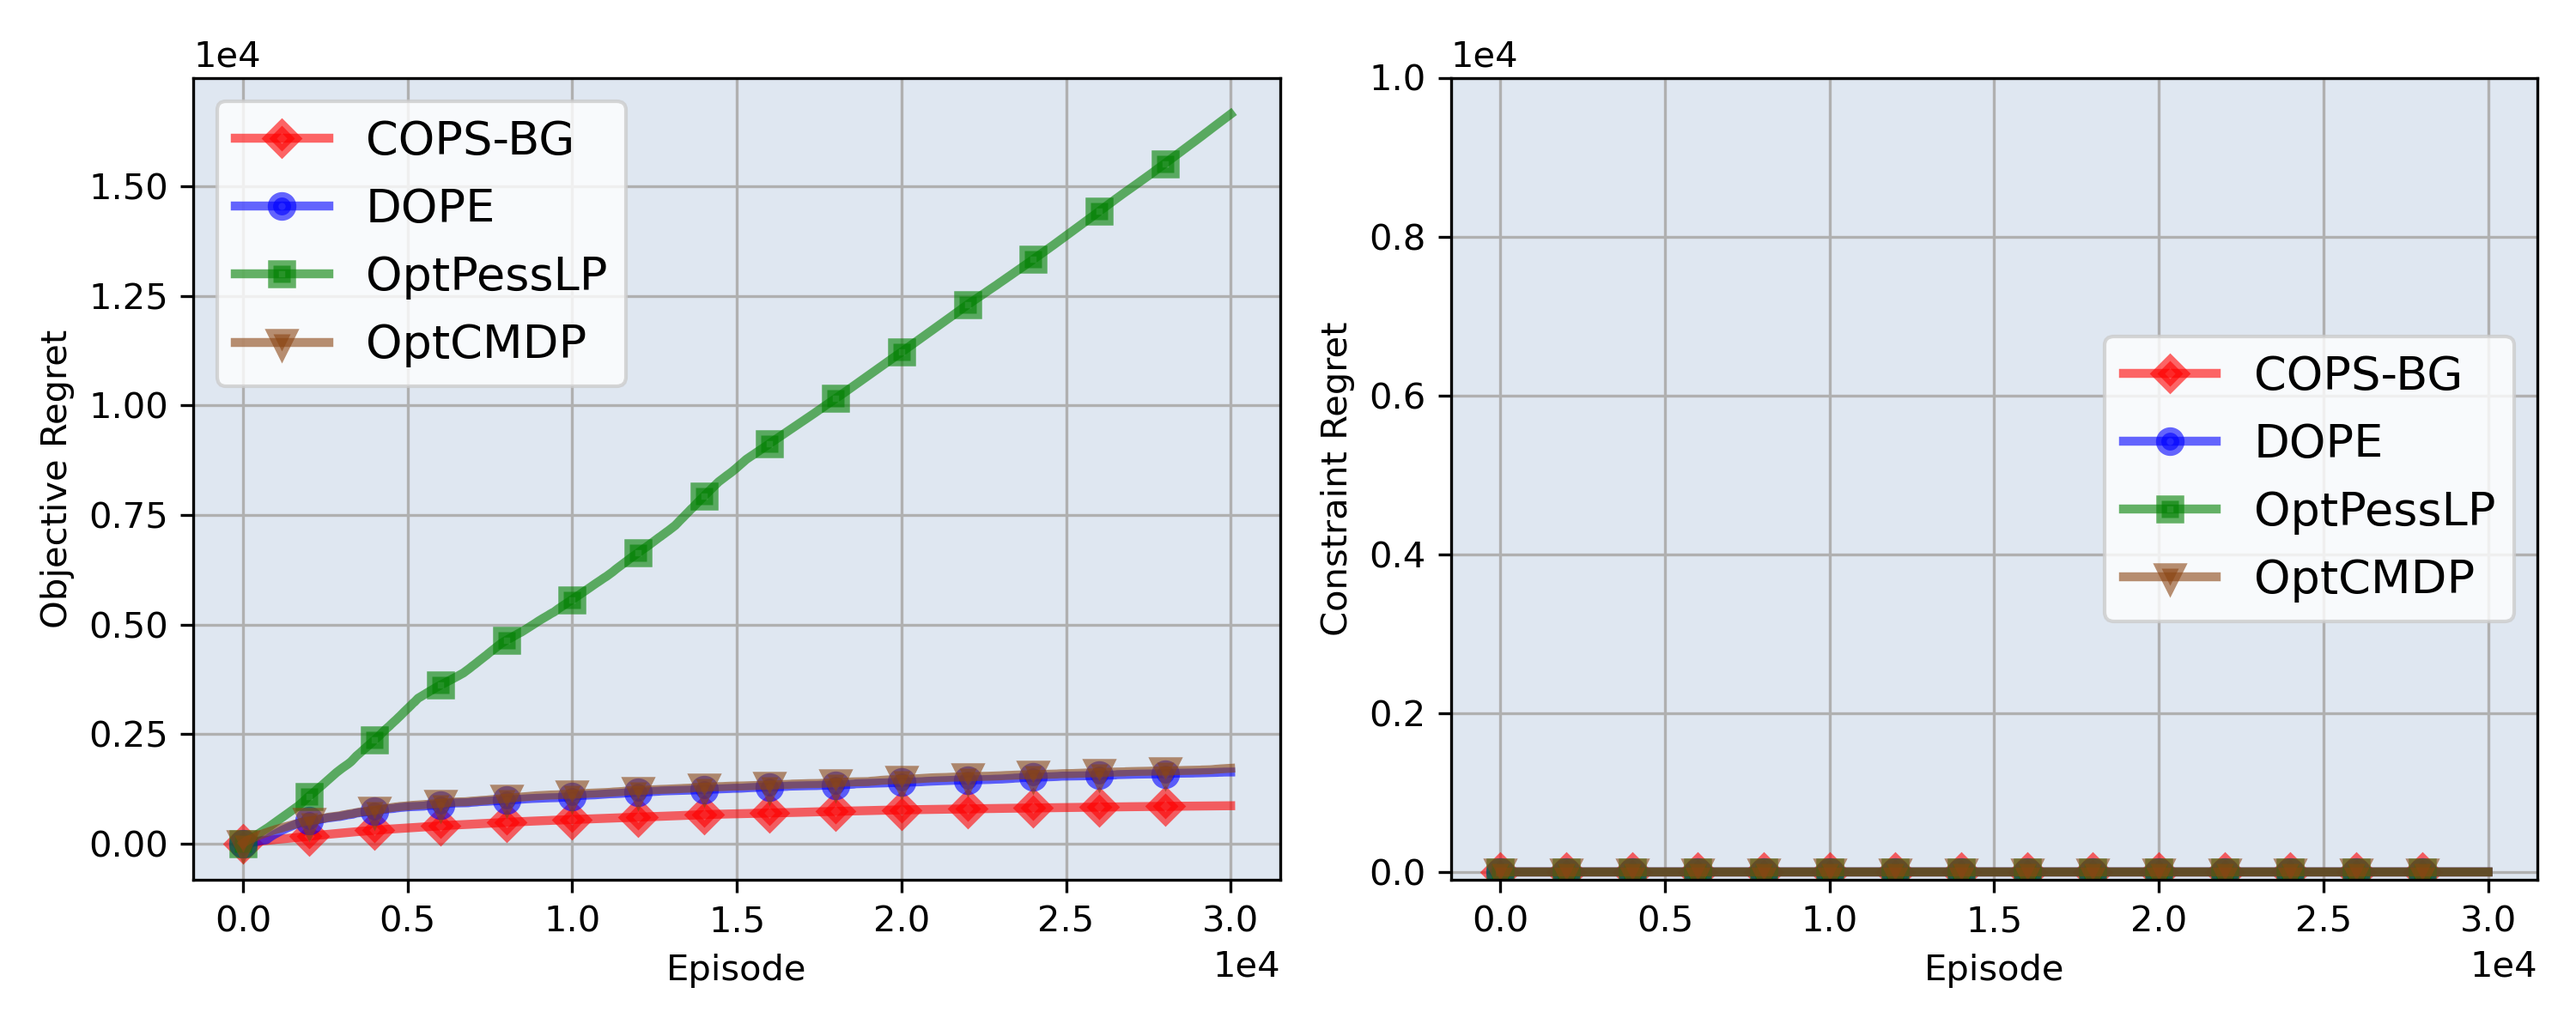
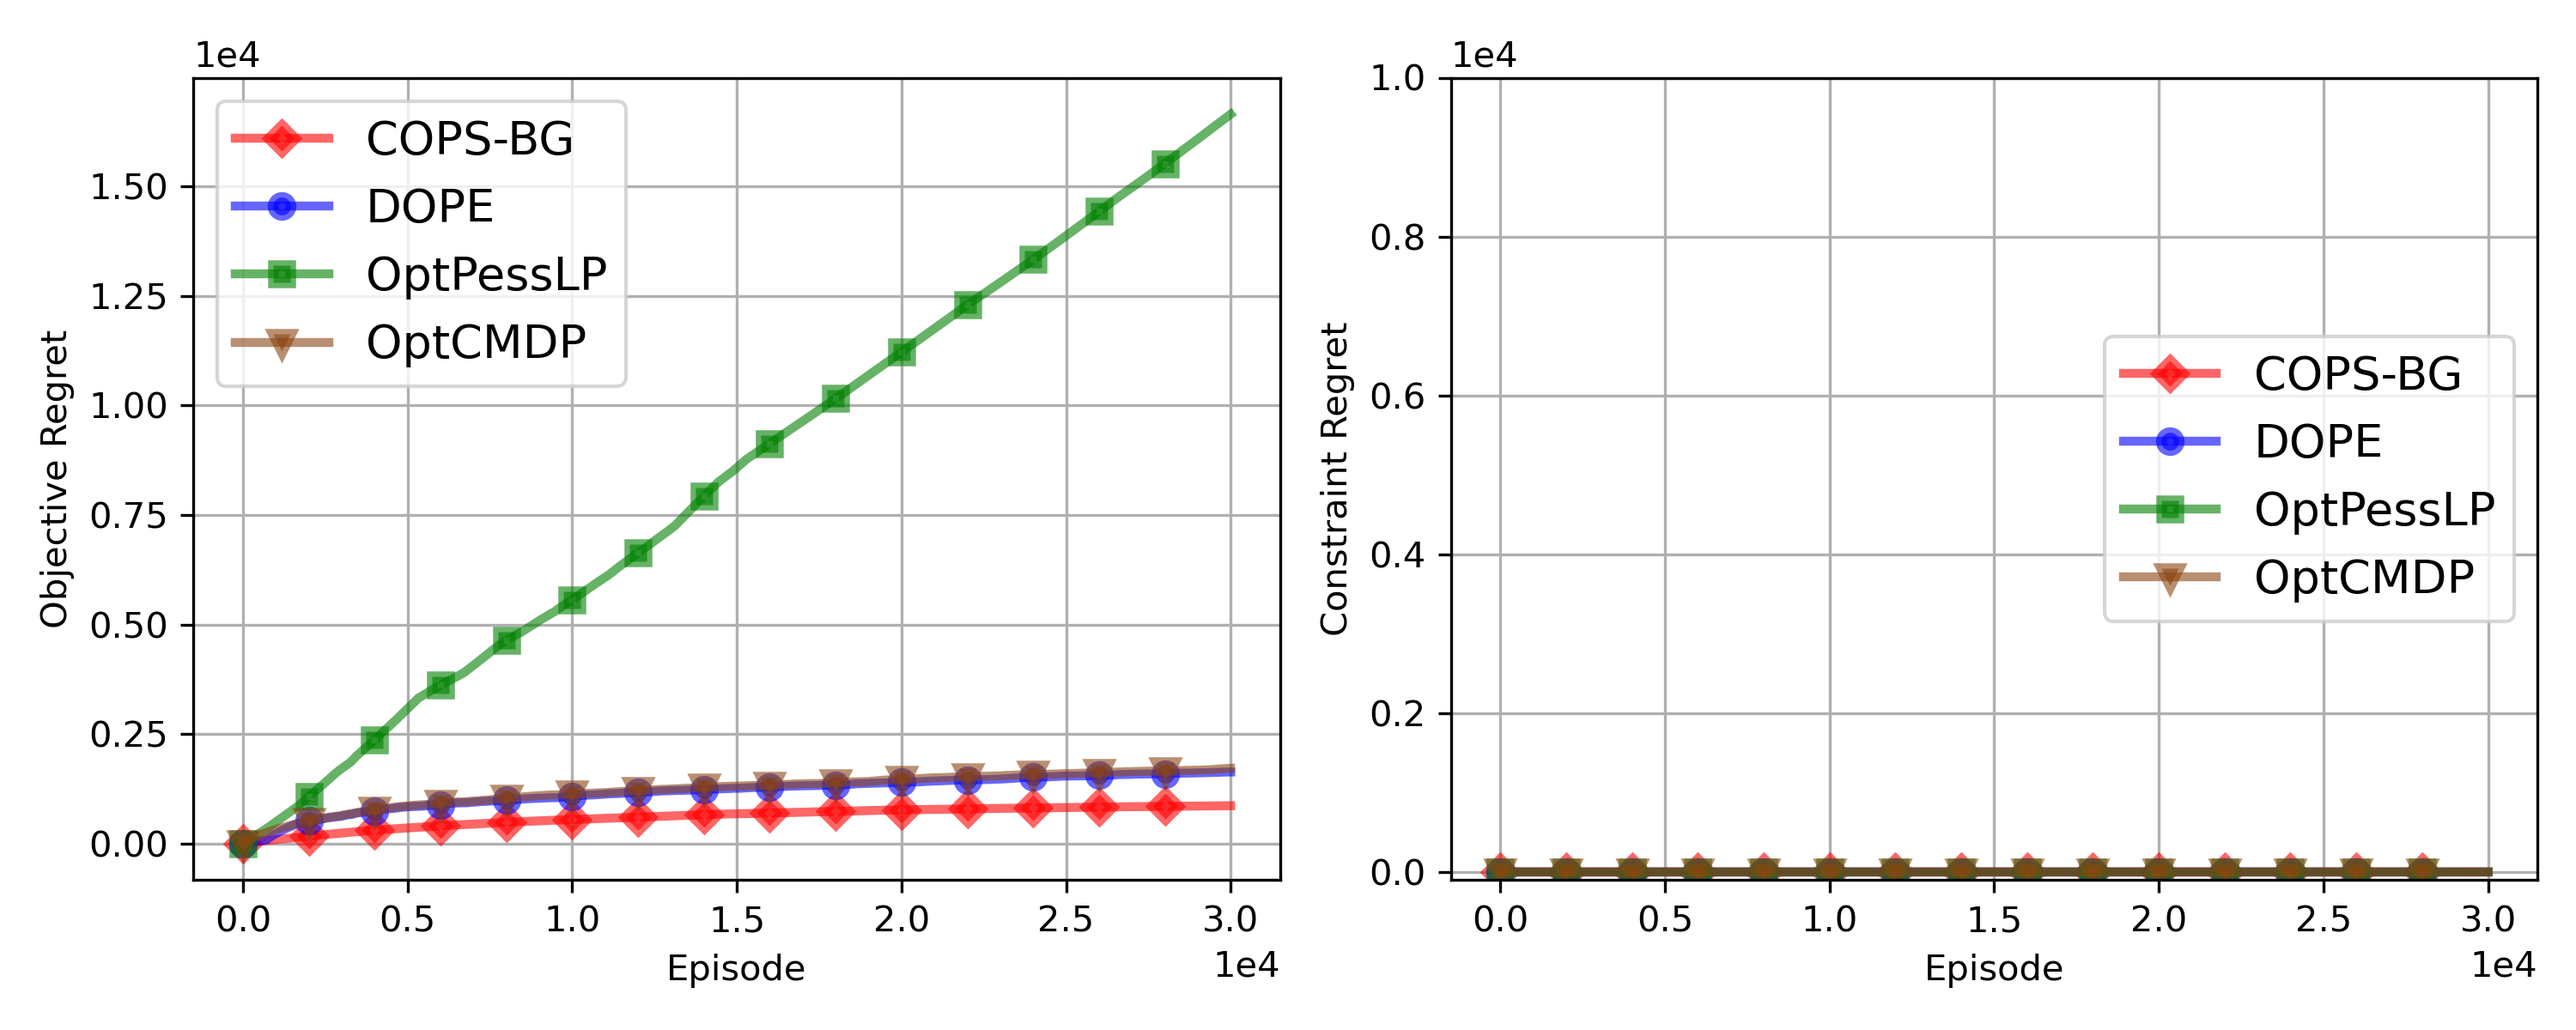
update regret plots with white background

diff --git a/BPBGClass/DOPE/plot_all_separate.py b/BPBGClass/DOPE/plot_all_separate.py
@@ -115,8 +115,8 @@ import matplotlib.pyplot as plt
 fig, axs = plt.subplots(1, 1, figsize=(5, 4))
 
 # set facecolor and alpha for all subplots
-axs.patch.set_facecolor("lightsteelblue")
-axs.patch.set_alpha(0.4)
+# axs.patch.set_facecolor("lightsteelblue")
+# axs.patch.set_alpha(0.4)
 
 # plot the first subplot
 for data, label, clr, mkr in zip(data_list, label_list, color_list, marker_list):
@@ -148,8 +148,8 @@ plt.savefig("../../NumericalResults/plots/pdf/BPBGClass_obj_regrets.pdf", dpi=30
 fig, axs = plt.subplots(1, 1, figsize=(5, 4))
 
 # set facecolor and alpha for all subplots
-axs.patch.set_facecolor("lightsteelblue")
-axs.patch.set_alpha(0.4)
+# axs.patch.set_facecolor("lightsteelblue")
+# axs.patch.set_alpha(0.4)
 
 # plot the first subplot
 for data, label, clr, mkr in zip(data_list, label_list, color_list, marker_list):

diff --git a/BGClass/DOPE/plot_all.py b/BGClass/DOPE/plot_all.py
@@ -112,9 +112,9 @@ import matplotlib.pyplot as plt
 fig, axs = plt.subplots(1, 2, figsize=(10, 4))
 
 # set facecolor and alpha for all subplots
-for ax in axs:
-    ax.patch.set_facecolor("lightsteelblue")
-    ax.patch.set_alpha(0.4)
+# for ax in axs:
+#     ax.patch.set_facecolor("lightsteelblue")
+#     ax.patch.set_alpha(0.4)
 
 # plot the first subplot
 for data, label, clr, mkr in zip(data_list, label_list, color_list, marker_list):

diff --git a/BPBGClass/DOPE/plot_all.py b/BPBGClass/DOPE/plot_all.py
@@ -115,9 +115,9 @@ import matplotlib.pyplot as plt
 fig, axs = plt.subplots(1, 2, figsize=(10, 4))
 
 # set facecolor and alpha for all subplots
-for ax in axs:
-    ax.patch.set_facecolor("lightsteelblue")
-    ax.patch.set_alpha(0.4)
+# for ax in axs:
+#     ax.patch.set_facecolor("lightsteelblue")
+#     ax.patch.set_alpha(0.4)
 
 # plot the first subplot
 for data, label, clr, mkr in zip(data_list, label_list, color_list, marker_list):

diff --git a/BPBGClass_4+4/DOPE/plot_all.py b/BPBGClass_4+4/DOPE/plot_all.py
@@ -115,9 +115,9 @@ import matplotlib.pyplot as plt
 fig, axs = plt.subplots(1, 2, figsize=(10, 4))
 
 # set facecolor and alpha for all subplots
-for ax in axs:
-    ax.patch.set_facecolor("lightsteelblue")
-    ax.patch.set_alpha(0.4)
+# for ax in axs:
+#     ax.patch.set_facecolor("lightsteelblue")
+#     ax.patch.set_alpha(0.4)
 
 # plot the first subplot
 for data, label, clr, mkr in zip(data_list, label_list, color_list, marker_list):

diff --git a/BPClass/DOPE/plot_all.py b/BPClass/DOPE/plot_all.py
@@ -104,9 +104,9 @@ import matplotlib.pyplot as plt
 fig, axs = plt.subplots(1, 2, figsize=(10, 4))
 
 # set facecolor and alpha for all subplots
-for ax in axs:
-    ax.patch.set_facecolor("lightsteelblue")
-    ax.patch.set_alpha(0.4)
+# for ax in axs:
+#     ax.patch.set_facecolor("lightsteelblue")
+#     ax.patch.set_alpha(0.4)
 
 # plot the first subplot
 for data, label, clr, mkr in zip(data_list, label_list, color_list, marker_list):

diff --git a/BPBGClass_4+4/DOPE/plot_all_separate.py b/BPBGClass_4+4/DOPE/plot_all_separate.py
@@ -115,8 +115,8 @@ import matplotlib.pyplot as plt
 fig, axs = plt.subplots(1, 1, figsize=(5, 4))
 
 # set facecolor and alpha for all subplots
-axs.patch.set_facecolor("lightsteelblue")
-axs.patch.set_alpha(0.4)
+# axs.patch.set_facecolor("lightsteelblue")
+# axs.patch.set_alpha(0.4)
 
 # plot the first subplot
 for data, label, clr, mkr in zip(data_list, label_list, color_list, marker_list):

diff --git a/README.md b/README.md
@@ -1,9 +1,12 @@
 # Accord-RL
 Safe RL for Healthcare
 
+[Slides](https://docs.google.com/presentation/d/1FEpQrTIzbyv5q6Vs8AI1u_axD3H4F-SUG1MbFUCMjrk/edit#slide=id.g24666924b86_1_29)
+
 ### To install environment
 `conda env create -f environment_Linux.yml` or `conda env create -f environment_Mac.yml`
 
+`conda activate tf`  
 
 ### Install Gurobi solver if desired
 
@@ -120,4 +123,17 @@ We compared the Contextual/COPS algorithm with DOPE, along with other two baseli
 3. Copied the generated simulation output csv files to `NumericalResults/` folder
    
 4. Run `Table_and_Plots_v3_LP_samepatient.ipynb` to get the plots and tables.
-   
+
+---
+2023/08/17 Thursday
+
+1. plot the regrets plots again by changing the blue background to white background
+```bash
+# navigate to each DOPE folder for each case, BPClass, BGClass, BPBGClass
+python plot_all.py 30000
+
+# for BPBGClass (2+2), plot the regrets separately
+python plot_all_separate.py 30000
+
+```
+
